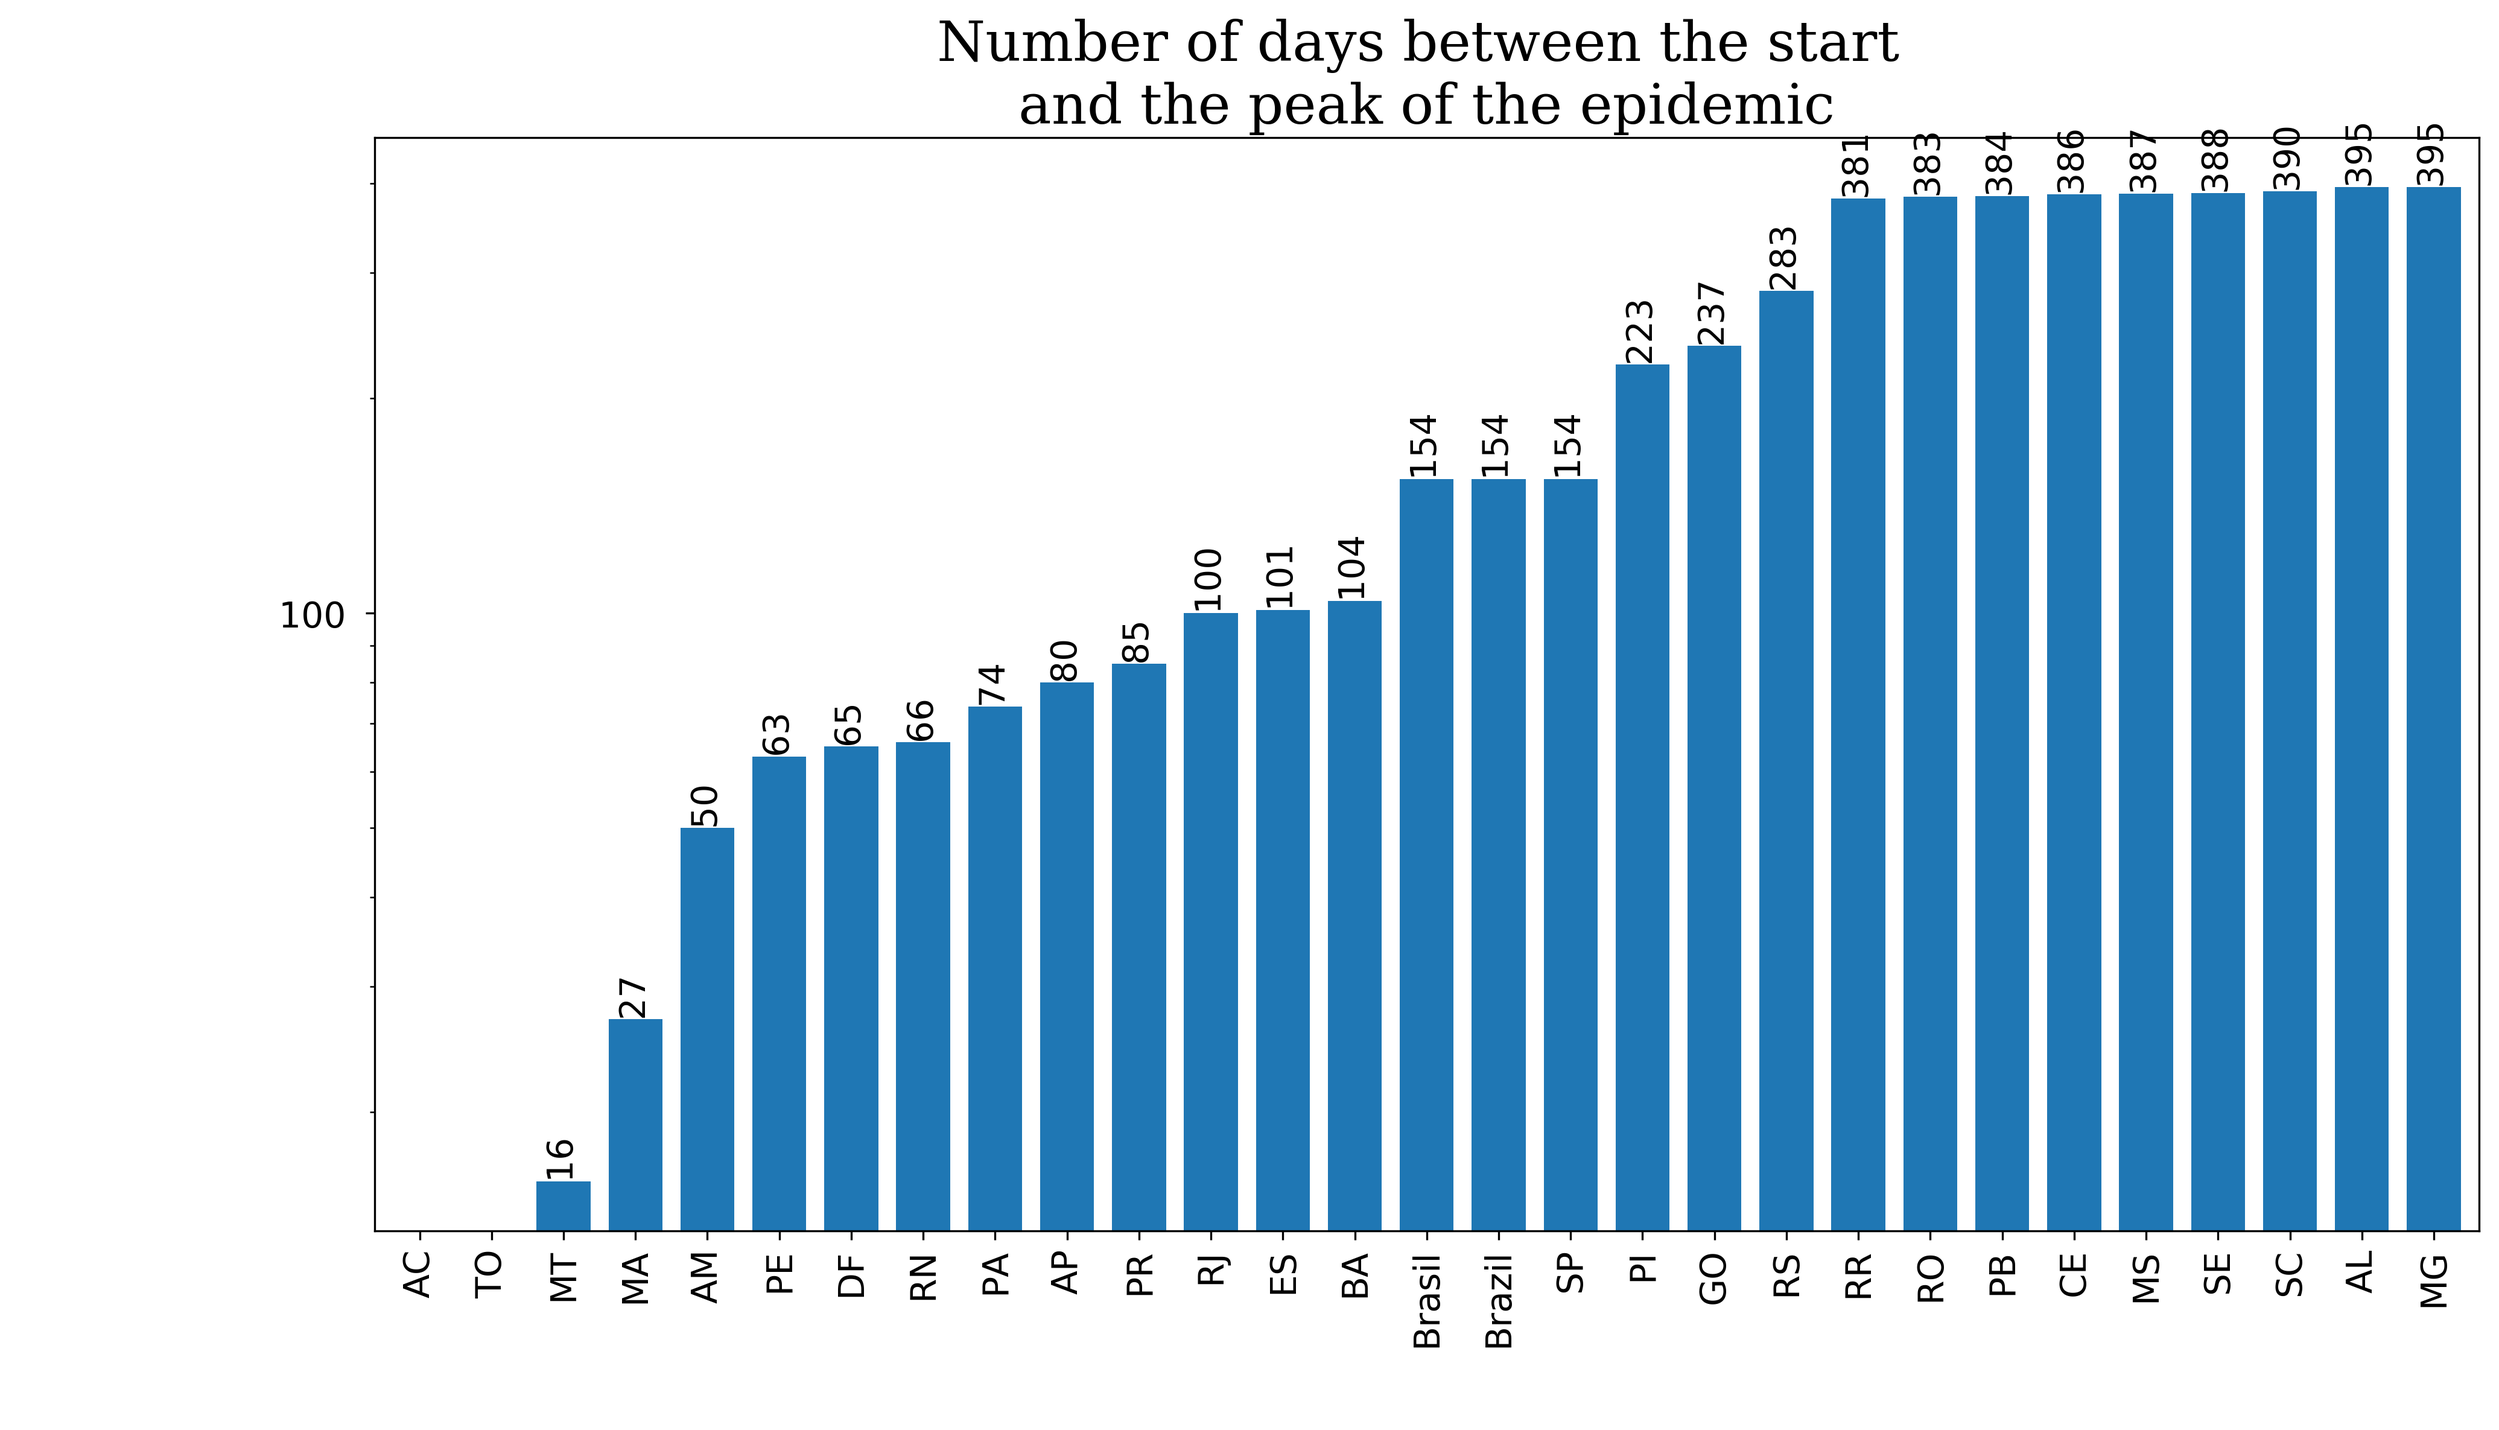
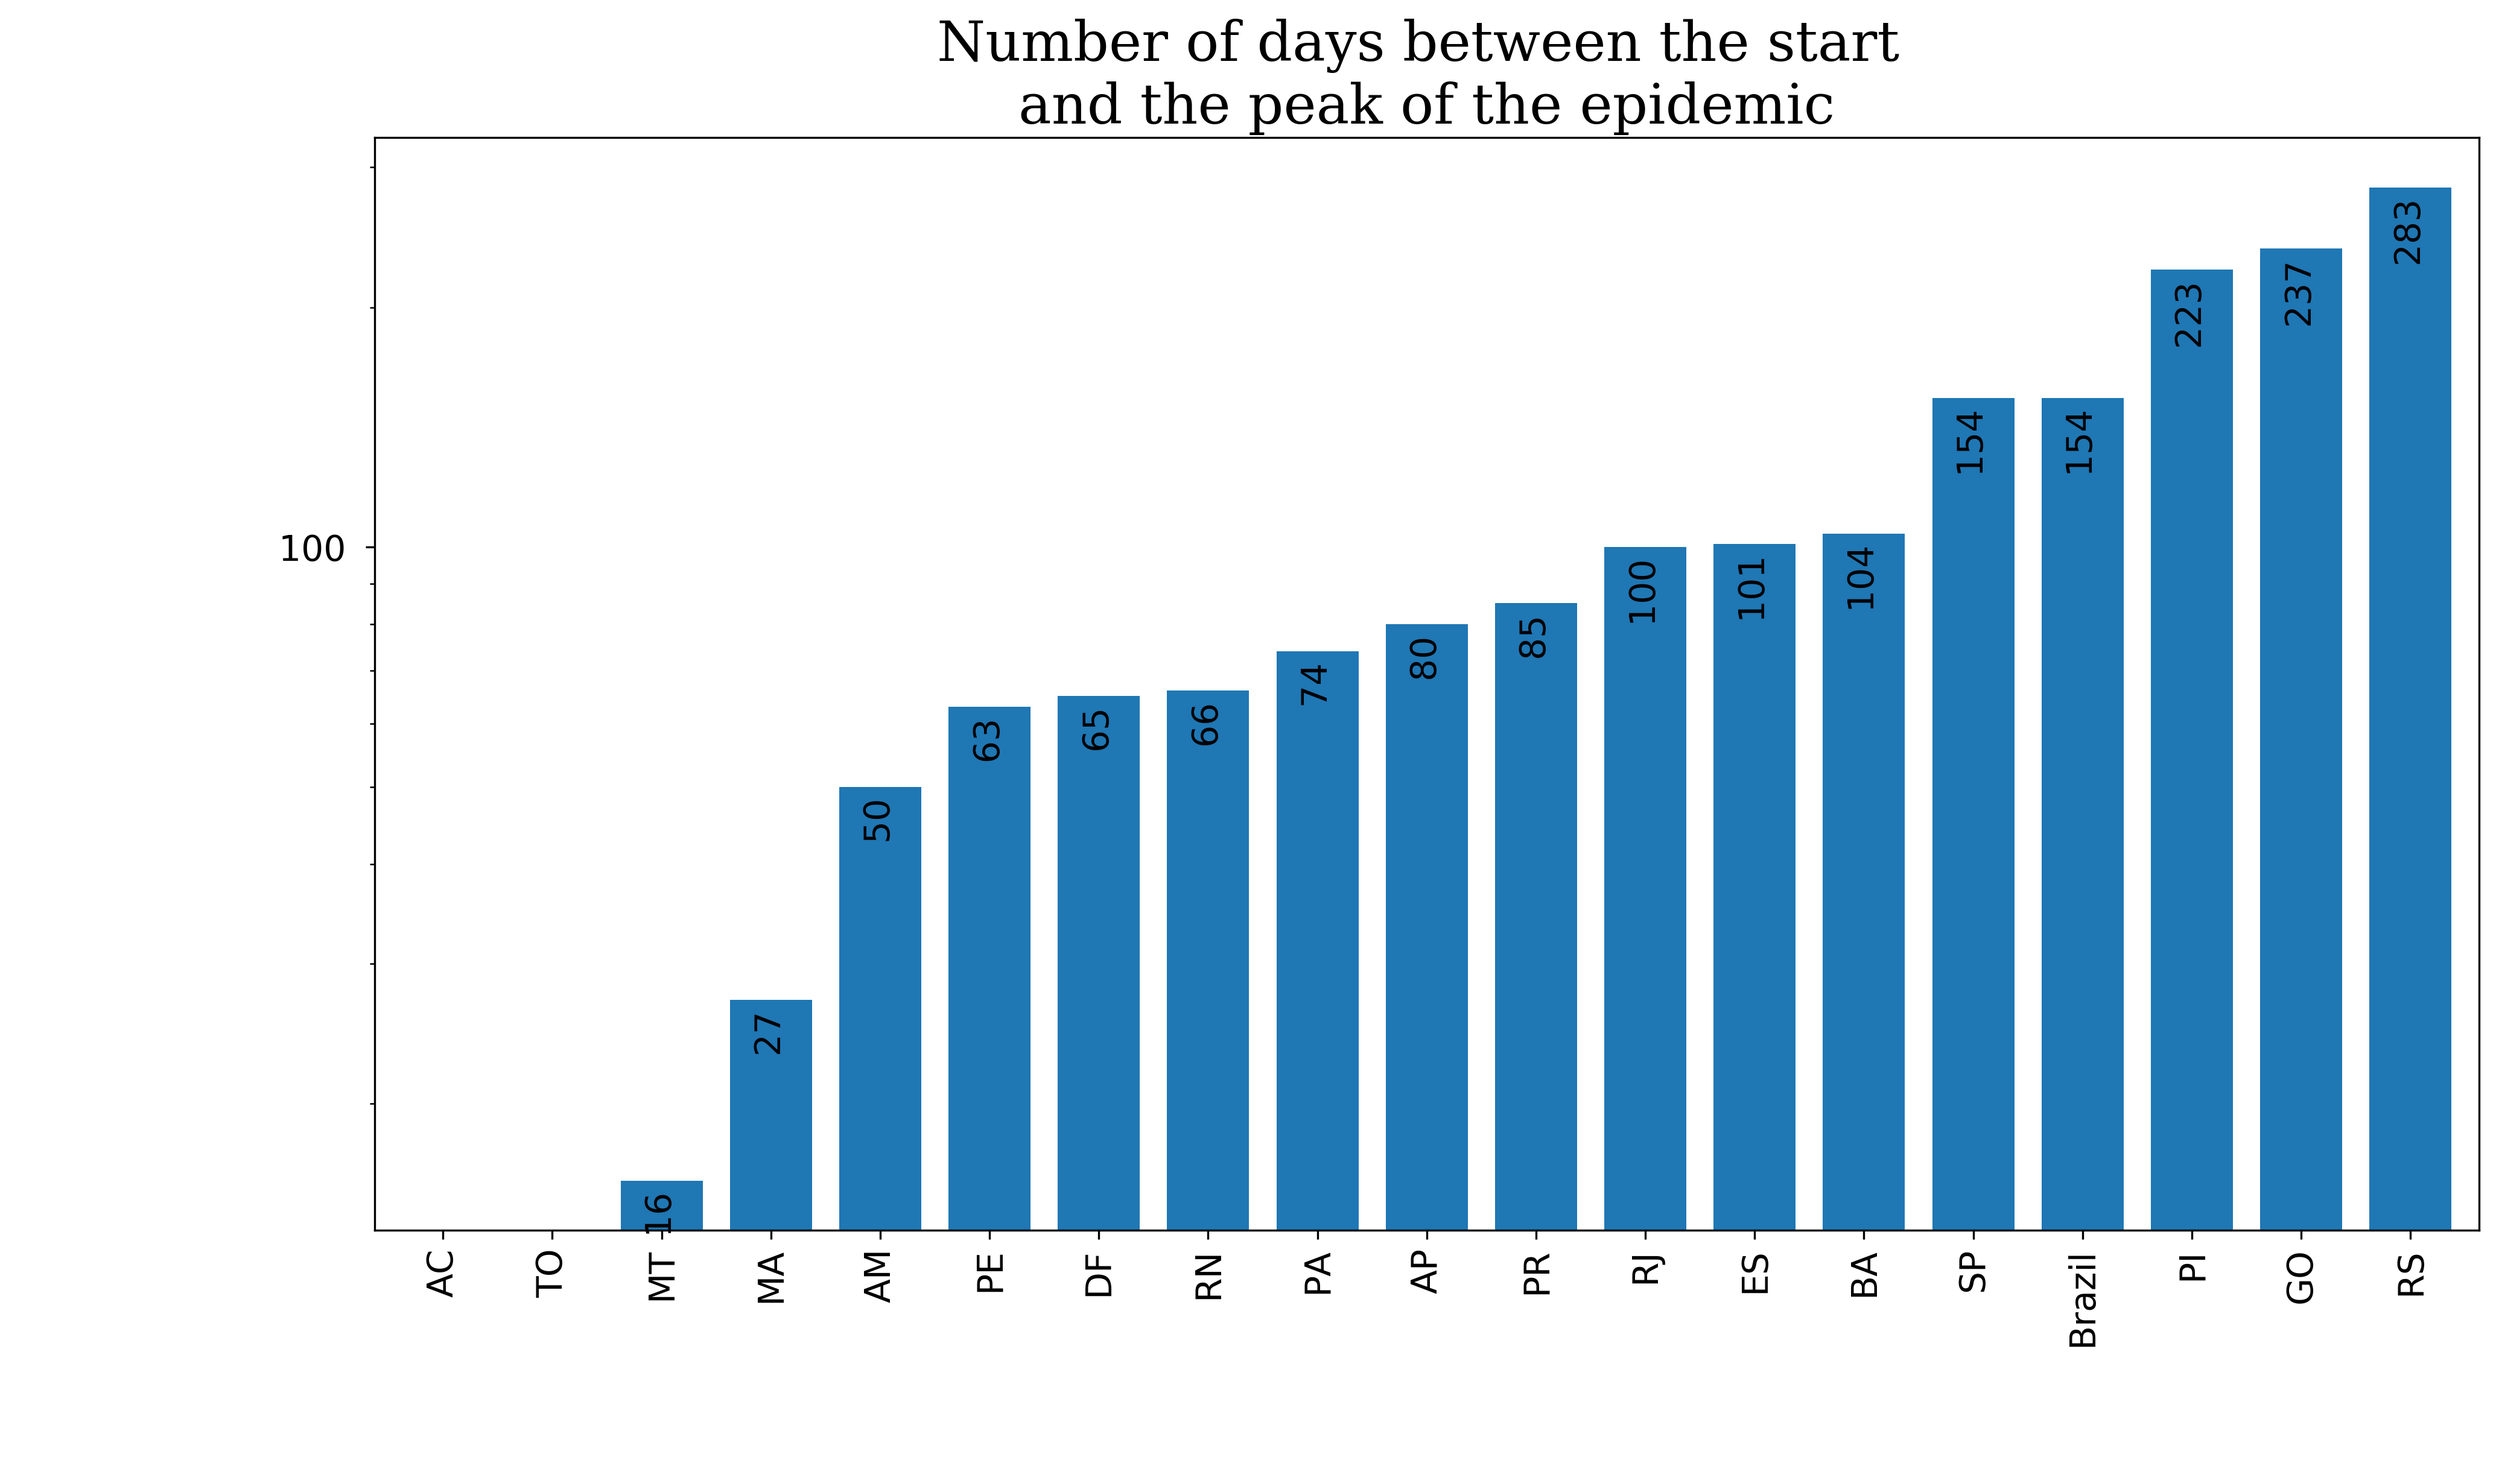
updat

Changed region(s): [[0.1557, 0.0312, 0.9966, 0.9367]]

diff --git a/script/daily_plot.py b/script/daily_plot.py
@@ -49,8 +49,8 @@ for i in onlyfiles:
             pos_max = i
     max_day = df_plot["datetime"][pos_max]
     print(max_day)
-    
-    inf.append([estado[9:-4], max_cases, pos_max, max_day])
+    if pos_max < i:
+        inf.append([estado[9:-4], max_cases, pos_max, max_day])
     
     fig,ax = plt.subplots(1, 1)
     figure = df_plot.plot(ax =ax,kind = "line", x = "datetime", y = estado[9:-4],
@@ -86,7 +86,7 @@ def bar_plt(atributo, title_name,df,logscale):
     for p in ax.patches:
         b = p.get_bbox()
         val = format_func(b.y1 + b.y0,1)        
-        ax.annotate(val, ((b.x0 + b.x1)/2, b.y1 +0.25/100), fontsize = 14,ha='center', va='bottom',rotation = 90)
+        ax.annotate(val, ((b.x0 + b.x1)/2, b.y1 + 0.25/100), fontsize = 14,ha='center', va='top',rotation = 90)
 
     plt.show()
     path_out ="C:/Users/ravel/OneDrive/Área de Trabalho/DataScientist/sklearn/COVID-19/CasosPorEstado/Richards_covid19/imagens/"
